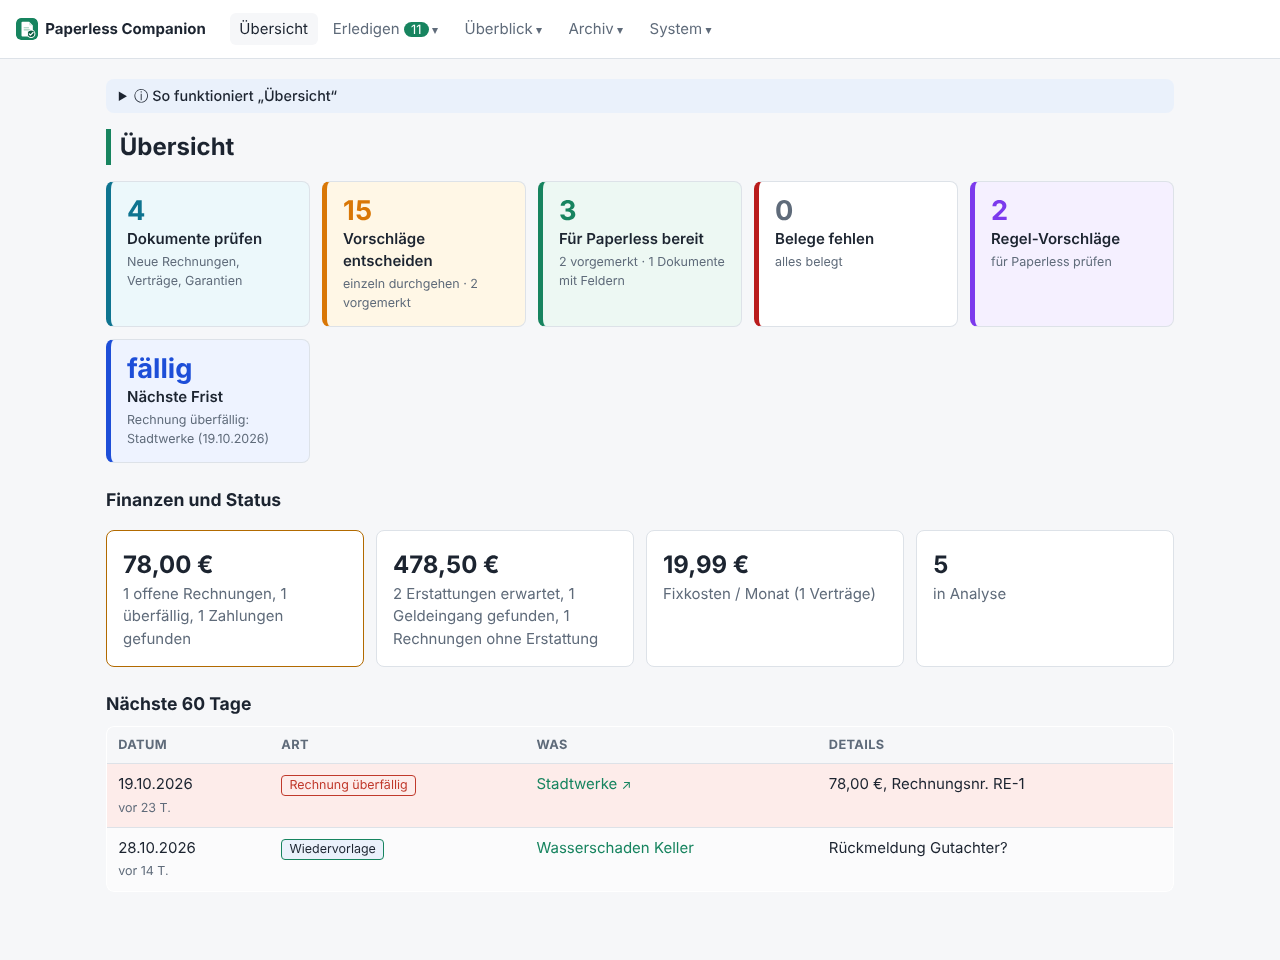
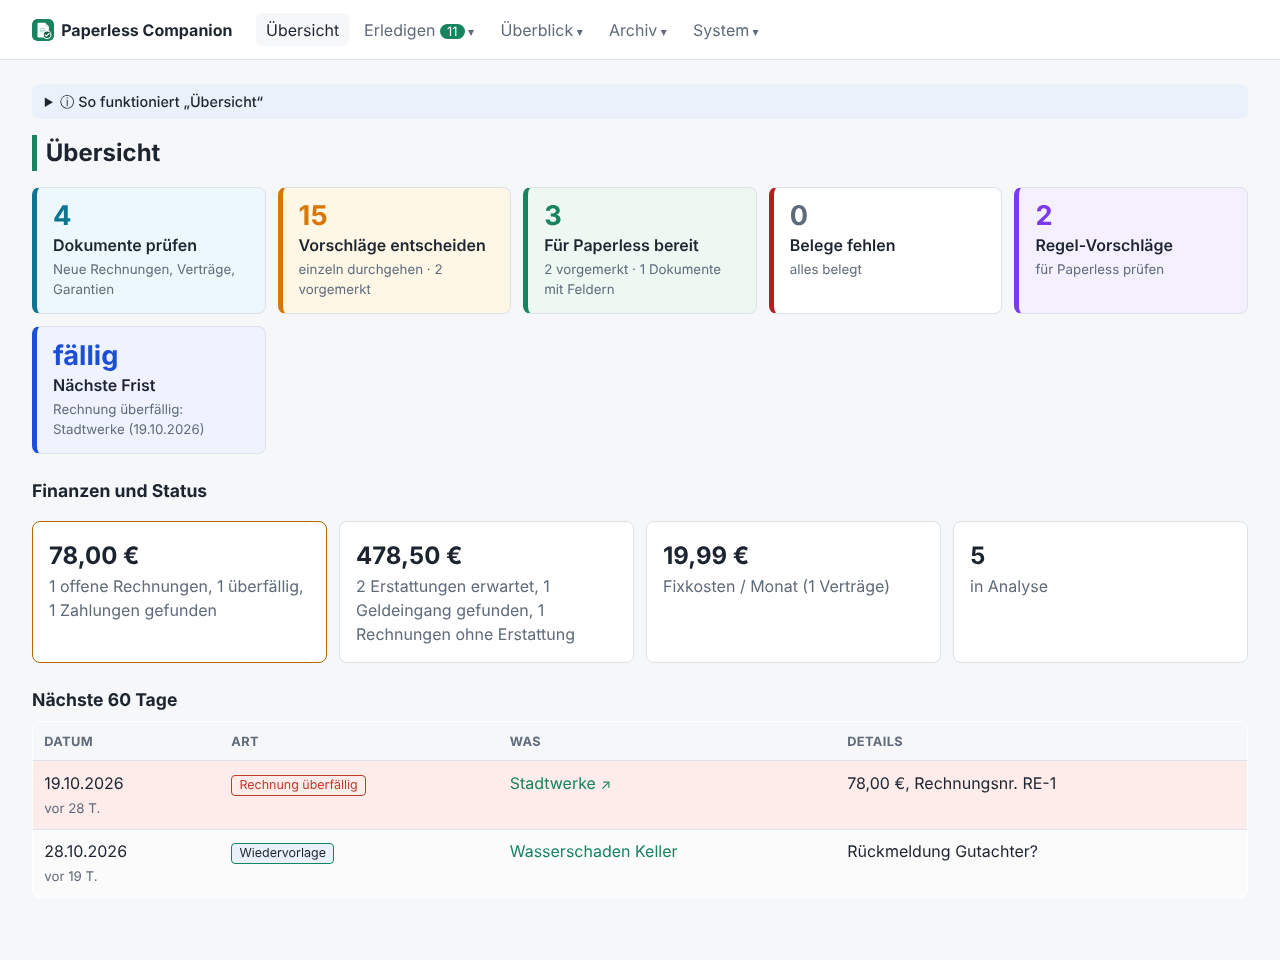
Desktop: Platz nutzen – volle Breite, größere Schrift, mehrspaltige Ansichten
- Ab 1200 px wachsen die Seiten mit dem Bildschirm (bis 1840 px), Schrift 16 px, luftigere Karten/Tabellen
- Für Paperless: Listen links, Filter/Status/Tipps als feste Seitenspalte rechts; Erklärtexte
  einklappbar; Dokumentblöcke ab 1700 px zweispaltig; Statistik und Archiv-Check nebeneinander
- Karten (Belege, Erstattungen, Inbox, Serien) nebeneinander; Regeln: Info-Karten nebeneinander
- Handy und schmale Fenster unverändert; Screenshots aktualisiert

Claude-Session: https://claude.ai/code/session_01GZFJmjHzpJwZEudqzSRrzQ

diff --git a/app/templates/paperless_changes.html b/app/templates/paperless_changes.html
@@ -116,6 +116,7 @@
     <label class="check"><input type="checkbox" onclick="document.querySelectorAll('#{{ form_id }} input[name=item]:not(.extra)').forEach(c => c.checked = this.checked); countSel('{{ form_id }}')"> alle auswählen</label>
     <small class="muted">{{ rows|length }} Dokumente</small>
   </div>
+  <div class="docblocks">
   {% for doc, items, extras in rows %}
   <article class="docblock">
     <header>
@@ -143,85 +144,19 @@
     {% endif %}
   </article>
   {% endfor %}
+  </div>
 {% endmacro %}
 
 <h2 id="metadata">Titel, Tags, Korrespondent, Dokumenttyp</h2>
 <datalist id="tag-choices">{% for n in META_CHOICES.tags %}<option value="{{ n }}">{% endfor %}</datalist>
 <datalist id="corr-choices">{% for n in META_CHOICES.correspondents %}<option value="{{ n }}">{% endfor %}</datalist>
-<p class="kind-legend"><span class="kind-pill k-title">Titel</span> <span class="kind-pill k-tag">Tag</span>
-  <span class="kind-pill k-correspondent">Korrespondent</span> <span class="kind-pill k-document_type">Dokumenttyp</span>
-  <small class="muted">· Tipp: ganze Zeile antippen zum Auswählen, Kästchen am Dokument wählt alle seine Vorschläge.
-    Beim Anhaken eines einzelnen Vorschlags erscheinen darunter ähnliche Dokumente (gleicher Absender, Betreff, IBAN/Kundennr.), die du gleich mit vormerken kannst.
-    Ist ein Filter gesetzt, zeigt „+ weitere außerhalb des Filters“ die übrigen Vorschläge desselben Dokuments.
-    Passt ein Vorschlag nicht ganz, korrigierst du ihn mit „✎ ändern“.</small></p>
-<p class="muted">Vorschläge aus dem lokalen Modell (<span class="badge src-llm">AI</span>) und aus deinen übrigen Dokumenten desselben Absenders
-  (<span class="badge src-history">Verlauf</span>). <strong>Vormerken</strong> speichert deine Entscheidung nur im Companion – die App lernt sofort daraus
-  (vorgemerkte Tags und Titel fließen in die nächsten Vorschläge ein). Nach Paperless geht erst etwas, wenn du <strong>Übertragen</strong> wählst.
-  {% if meta_queued %}<br><span class="tag">{{ meta_queued }} Vorschläge in Arbeit</span>{% endif %}</p>
-{% set ms = meta_status %}
-<div class="card meta-status">
-  <p><strong>Stand:</strong> {{ ms.done }} Dokumente mit Vorschlag
-    {%- if ms.nothing_open %} (davon {{ ms.nothing_open }} ohne offenen Punkt – Paperless passt schon oder alles entschieden){% endif %}
-    · {{ ms.queued }} in Warteschlange · {{ ms.error }} fehlgeschlagen
-    · {{ ms.analyzed_without }} analysierte Dokumente noch ohne Vorschlag</p>
-  {% if settings.meta_mode == 'off' %}<p class="notice warn">Metadaten-Vorschläge sind abgeschaltet (<code>META_MODE=off</code>).</p>
-  {% elif queue_paused and ms.queued %}<p class="notice warn">Die Warteschlange ist angehalten (System → Fortsetzen).</p>
-  {% elif settings.llm_enabled and not llm_now and ms.queued %}<p class="notice">Vorschläge mit AI laufen nur im AI-Zeitfenster ({{ settings.llm_active_hours }} Uhr).</p>
-  {% elif ms.queued and ms.analyses_waiting %}<p class="muted">Vorschläge laufen abwechselnd mit den {{ ms.analyses_waiting }} wartenden Analysen.</p>{% endif %}
-  {% if ms.last_error %}<p class="bad"><small>Letzter Fehler: {{ ms.last_error }}</small></p>{% endif %}
-  {% if ms.analyzed_without or ms.error %}
-  <form method="post" action="/paperless-changes/meta-backfill" class="inline" onsubmit="return confirm('{{ ms.analyzed_without + ms.error }} Dokumente für Vorschläge einreihen? Mit AI etwa eine Minute je Dokument auf der CPU – die Warteschlange lässt sich jederzeit anhalten.')">
-    <button class="small">Für {{ ms.analyzed_without + ms.error }} analysierte Dokumente Vorschläge erstellen</button>
-  </form>
-  {% endif %}
-</div>
-<p class="muted">Zuletzt erstellter Metadaten-Vorschlag: <strong>{{ last.meta_any|ts }}</strong>
-  {%- if last.meta_open %} · jüngster mit offenen Punkten: <strong>{{ last.meta_open|ts }}</strong>{% endif %}</p>
-
 {% set mf = meta_filter %}
 {% set mf_active = mf.values()|select|list|length > 0 %}
 {% macro mf_hidden(mf) %}{% for k, v in mf.items() if v %}<input type="hidden" name="{{ k }}" value="{{ v }}">{% endfor %}{% endmacro %}
 {% macro none_label(v) %}{{ '(ohne)' if v == NONE else v }}{% endmacro %}
-{% if questionable_count and not mf.check %}
-<div class="notice warn">{{ questionable_count }} vorgemerkte Einträge würden heute nicht mehr vorgeschlagen
-  (Jahres-Tag ohne Bezug zum Dokumentdatum, englischer Titel oder Tag).
-  <a href="/paperless-changes?check=1#metadata">Ansehen</a> – dort kannst du sie zurücknehmen, ändern oder so lassen. Es wird nichts automatisch entfernt.</div>
-{% endif %}
-{% if mf.check %}<div class="notice">Angezeigt werden nur Einträge, die heute nicht mehr vorgeschlagen würden (Jahres-Tags, Englisch).
-  <a href="/paperless-changes#metadata">Alle anzeigen</a></div>{% endif %}
-{% if mf.series %}<div class="notice">Nur Serie <strong>{{ series_name or mf.series }}</strong> –
-  <a href="/series/{{ mf.series }}">Serie ansehen</a> · <a href="/paperless-changes#metadata">alle anzeigen</a></div>{% endif %}
-
-{% if series_cards and not mf.series and not mf.check %}
-<section class="card section-series">
-  <h3>Serien – wiederkehrende Dokumente gemeinsam einordnen ({{ series_cards|length }}) {{ help("Dokumente desselben Absenders mit gleichem Betreff. Die Werte kommen aus den schon abgelegten Dokumenten der Serie (auch aus Vorgemerktem), nicht von der AI. „Alle vormerken“ merkt nur im Companion vor.") }}</h3>
-  <div class="series-cards">
-    {% for sc in series_cards[:12] %}
-    <article class="series-card">
-      <div class="series-head">
-        <a href="/series/{{ sc.id }}"><strong>{{ sc.name }}</strong></a>
-        <small class="muted">{{ sc.correspondent or 'ohne Korrespondent' }} · {{ sc.size }} Dokumente, {{ sc.refs }} schon abgelegt</small>
-      </div>
-      <div class="series-what">
-        {% if sc.pattern %}<span class="kind-pill k-title">Titel: {{ sc.pattern }}</span>{% endif %}
-        {% for t in sc.tags %}<span class="kind-pill k-tag">{{ t }}</span>{% endfor %}
-        {% if sc.document_type %}<span class="kind-pill k-document_type">{{ sc.document_type }}</span>{% endif %}
-      </div>
-      <div class="series-actions">
-        <form method="post" action="/paperless-changes/meta" class="inline"
-          onsubmit="return confirm('{{ sc['items'] }} Serienvorschläge bei {{ sc.docs }} Dokumenten vormerken? (Nur im Companion.)')">
-          <input type="hidden" name="series" value="{{ sc.id }}"><input type="hidden" name="source" value="series">
-          <button name="action" value="accept_all" class="small primary">{{ 'Alle ' ~ sc['items'] if sc['items'] != 1 else '1 Vorschlag' }} vormerken</button>
-        </form>
-        <a class="button small" href="/paperless-changes?series={{ sc.id }}#metadata">{{ sc.docs }} {{ 'Dokument' if sc.docs == 1 else 'Dokumente' }} ansehen</a>
-      </div>
-    </article>
-    {% endfor %}
-  </div>
-  {% if series_cards|length > 12 %}<p class="muted"><a href="/series">Alle {{ series_cards|length }} Serien mit offenen Vorschlägen</a></p>{% endif %}
-</section>
-{% endif %}
-
+{# Desktop: Listen links, Filter/Status als feste Seitenspalte rechts. Schmal: Seitenspalte zuerst, dann die Listen. #}
+<div class="pc-layout">
+<aside class="pc-side">
 <form method="get" action="/paperless-changes#metadata" class="card filter-card meta-filter">
   <nav class="tabs" aria-label="Art des Vorschlags">
     {% set total_open = meta_counts.what.values()|sum %}
@@ -261,6 +196,81 @@
     {% if mf_active %}<a class="button small" href="/paperless-changes#metadata">Filter zurücksetzen</a>{% endif %}
   </div>
 </form>
+
+{% set ms = meta_status %}
+<div class="card meta-status">
+  <p><strong>Stand:</strong> {{ ms.done }} Dokumente mit Vorschlag
+    {%- if ms.nothing_open %} (davon {{ ms.nothing_open }} ohne offenen Punkt – Paperless passt schon oder alles entschieden){% endif %}
+    · {{ ms.queued }} in Warteschlange · {{ ms.error }} fehlgeschlagen
+    · {{ ms.analyzed_without }} analysierte Dokumente noch ohne Vorschlag</p>
+  {% if settings.meta_mode == 'off' %}<p class="notice warn">Metadaten-Vorschläge sind abgeschaltet (<code>META_MODE=off</code>).</p>
+  {% elif queue_paused and ms.queued %}<p class="notice warn">Die Warteschlange ist angehalten (System → Fortsetzen).</p>
+  {% elif settings.llm_enabled and not llm_now and ms.queued %}<p class="notice">Vorschläge mit AI laufen nur im AI-Zeitfenster ({{ settings.llm_active_hours }} Uhr).</p>
+  {% elif ms.queued and ms.analyses_waiting %}<p class="muted">Vorschläge laufen abwechselnd mit den {{ ms.analyses_waiting }} wartenden Analysen.</p>{% endif %}
+  {% if ms.last_error %}<p class="bad"><small>Letzter Fehler: {{ ms.last_error }}</small></p>{% endif %}
+  {% if ms.analyzed_without or ms.error %}
+  <form method="post" action="/paperless-changes/meta-backfill" class="inline" onsubmit="return confirm('{{ ms.analyzed_without + ms.error }} Dokumente für Vorschläge einreihen? Mit AI etwa eine Minute je Dokument auf der CPU – die Warteschlange lässt sich jederzeit anhalten.')">
+    <button class="small">Für {{ ms.analyzed_without + ms.error }} analysierte Dokumente Vorschläge erstellen</button>
+  </form>
+  {% endif %}
+</div>
+<p class="muted">Zuletzt erstellter Metadaten-Vorschlag: <strong>{{ last.meta_any|ts }}</strong>
+  {%- if last.meta_open %} · jüngster mit offenen Punkten: <strong>{{ last.meta_open|ts }}</strong>{% endif %}</p>
+
+<details class="card pc-tips">
+  <summary>Legende und Tipps zur Bedienung</summary>
+<p class="kind-legend"><span class="kind-pill k-title">Titel</span> <span class="kind-pill k-tag">Tag</span>
+  <span class="kind-pill k-correspondent">Korrespondent</span> <span class="kind-pill k-document_type">Dokumenttyp</span>
+  <small class="muted">· Tipp: ganze Zeile antippen zum Auswählen, Kästchen am Dokument wählt alle seine Vorschläge.
+    Beim Anhaken eines einzelnen Vorschlags erscheinen darunter ähnliche Dokumente (gleicher Absender, Betreff, IBAN/Kundennr.), die du gleich mit vormerken kannst.
+    Ist ein Filter gesetzt, zeigt „+ weitere außerhalb des Filters“ die übrigen Vorschläge desselben Dokuments.
+    Passt ein Vorschlag nicht ganz, korrigierst du ihn mit „✎ ändern“.</small></p>
+<p class="muted">Vorschläge aus dem lokalen Modell (<span class="badge src-llm">AI</span>) und aus deinen übrigen Dokumenten desselben Absenders
+  (<span class="badge src-history">Verlauf</span>). <strong>Vormerken</strong> speichert deine Entscheidung nur im Companion – die App lernt sofort daraus
+  (vorgemerkte Tags und Titel fließen in die nächsten Vorschläge ein). Nach Paperless geht erst etwas, wenn du <strong>Übertragen</strong> wählst.
+  {% if meta_queued %}<br><span class="tag">{{ meta_queued }} Vorschläge in Arbeit</span>{% endif %}</p>
+</details>
+</aside>
+<div class="pc-main">
+{% if questionable_count and not mf.check %}
+<div class="notice warn">{{ questionable_count }} vorgemerkte Einträge würden heute nicht mehr vorgeschlagen
+  (Jahres-Tag ohne Bezug zum Dokumentdatum, englischer Titel oder Tag).
+  <a href="/paperless-changes?check=1#metadata">Ansehen</a> – dort kannst du sie zurücknehmen, ändern oder so lassen. Es wird nichts automatisch entfernt.</div>
+{% endif %}
+{% if mf.check %}<div class="notice">Angezeigt werden nur Einträge, die heute nicht mehr vorgeschlagen würden (Jahres-Tags, Englisch).
+  <a href="/paperless-changes#metadata">Alle anzeigen</a></div>{% endif %}
+{% if mf.series %}<div class="notice">Nur Serie <strong>{{ series_name or mf.series }}</strong> –
+  <a href="/series/{{ mf.series }}">Serie ansehen</a> · <a href="/paperless-changes#metadata">alle anzeigen</a></div>{% endif %}
+
+{% if series_cards and not mf.series and not mf.check %}
+<section class="card section-series">
+  <h3>Serien – wiederkehrende Dokumente gemeinsam einordnen ({{ series_cards|length }}) {{ help("Dokumente desselben Absenders mit gleichem Betreff. Die Werte kommen aus den schon abgelegten Dokumenten der Serie (auch aus Vorgemerktem), nicht von der AI. „Alle vormerken“ merkt nur im Companion vor.") }}</h3>
+  <div class="series-cards">
+    {% for sc in series_cards[:12] %}
+    <article class="series-card">
+      <div class="series-head">
+        <a href="/series/{{ sc.id }}"><strong>{{ sc.name }}</strong></a>
+        <small class="muted">{{ sc.correspondent or 'ohne Korrespondent' }} · {{ sc.size }} Dokumente, {{ sc.refs }} schon abgelegt</small>
+      </div>
+      <div class="series-what">
+        {% if sc.pattern %}<span class="kind-pill k-title">Titel: {{ sc.pattern }}</span>{% endif %}
+        {% for t in sc.tags %}<span class="kind-pill k-tag">{{ t }}</span>{% endfor %}
+        {% if sc.document_type %}<span class="kind-pill k-document_type">{{ sc.document_type }}</span>{% endif %}
+      </div>
+      <div class="series-actions">
+        <form method="post" action="/paperless-changes/meta" class="inline"
+          onsubmit="return confirm('{{ sc['items'] }} Serienvorschläge bei {{ sc.docs }} Dokumenten vormerken? (Nur im Companion.)')">
+          <input type="hidden" name="series" value="{{ sc.id }}"><input type="hidden" name="source" value="series">
+          <button name="action" value="accept_all" class="small primary">{{ 'Alle ' ~ sc['items'] if sc['items'] != 1 else '1 Vorschlag' }} vormerken</button>
+        </form>
+        <a class="button small" href="/paperless-changes?series={{ sc.id }}#metadata">{{ sc.docs }} {{ 'Dokument' if sc.docs == 1 else 'Dokumente' }} ansehen</a>
+      </div>
+    </article>
+    {% endfor %}
+  </div>
+  {% if series_cards|length > 12 %}<p class="muted"><a href="/series">Alle {{ series_cards|length }} Serien mit offenen Vorschlägen</a></p>{% endif %}
+</section>
+{% endif %}
 
 <section class="card section-accepted">
 <h3>Vorgemerkt – wartet auf Übertragung ({{ meta_accepted_count }}{{ ', gefiltert' if mf_active }}) {{ help("Von dir vorgemerkt. Die App lernt bereits daraus, Paperless bleibt unverändert, bis du überträgst.") }}</h3>
@@ -308,6 +318,7 @@
 {% endif %}
 </section>
 
+<div class="two-up">
 <section class="card">
   <h2>Wie gut sind die Vorschläge? {{ help("Je Quelle und Art: wie oft du übernommen, geändert oder verworfen hast. Hilft zu entscheiden, wann sich das Übertragen lohnt.") }}</h2>
   {% if quality.rows %}
@@ -340,6 +351,9 @@
     {% endfor %}
   </ul>
 </section>
+</div>
+</div>
+</div>
 <script>
 // Anzahl ausgewählter Einträge in der Aktionsleiste anzeigen
 function countSel(formId) {

diff --git a/app/static/style.css b/app/static/style.css
@@ -705,3 +705,40 @@ body.docview-open { overflow: hidden; }
 .receipt-search input { width: 100%; }
 .receipt-hit-list li { display: flex; flex-wrap: wrap; gap: .3rem .6rem; justify-content: space-between; align-items: center;
   padding: .35rem 0; border-top: 1px dashed var(--border); }
+
+/* ------------------------------------------------------------------ Desktop: Platz nutzen
+   Ab 1200 px wachsen die Seiten mit dem Bildschirm, die Schrift wird etwas größer, Karten stehen nebeneinander. */
+@media (min-width: 1200px) {
+  body { font-size: 16px; }
+  main, main.wide { max-width: min(1840px, 100%); padding: 1.5rem 2rem 3rem; }
+  .topbar { padding-left: 2rem; padding-right: 2rem; }
+  .card { padding: 1.15rem 1.25rem; }
+  table.list th, table.list td { padding-top: .6rem; padding-bottom: .6rem; }
+  /* Karten nebeneinander statt untereinander */
+  .tx-cards, .doc-cards { display: grid; grid-template-columns: repeat(auto-fill, minmax(34rem, 1fr)); gap: .75rem; align-items: start; }
+  .tx-cards > *, .doc-cards > * { margin: 0; }
+  .series-cards { grid-template-columns: repeat(auto-fill, minmax(22rem, 1fr)); }
+  .tiles { grid-template-columns: repeat(auto-fit, minmax(13rem, 1fr)); }
+  /* Für Paperless: Listen links, Filter und Status als Seitenspalte rechts */
+  .pc-layout { display: grid; grid-template-columns: minmax(0, 1fr) clamp(19rem, 22vw, 25rem); gap: 1.25rem; align-items: start; }
+  .pc-side { grid-column: 2; grid-row: 1; position: sticky; top: 1rem; max-height: calc(100vh - 2rem); overflow-y: auto; }
+  .pc-main { grid-column: 1; grid-row: 1; min-width: 0; }
+  .pc-side > .card:first-child, .pc-main > .card:first-child, .pc-main > .notice:first-child { margin-top: 0; }
+  .pc-side .grid { grid-template-columns: 1fr; }
+  .pc-side .tabs { flex-wrap: wrap; }
+  /* Lesetexte nicht über die ganze Breite ziehen */
+  main > p, main > .head + p, .card > p.muted, .page-help p { max-width: 75rem; }
+}
+/* Sehr breite Bildschirme: Dokumentblöcke zweispaltig */
+@media (min-width: 1700px) {
+  .docblocks { display: grid; grid-template-columns: repeat(2, minmax(0, 1fr)); gap: .6rem .9rem; align-items: start; }
+  .docblocks > .docblock { margin: 0; }
+}
+.pc-tips > summary { cursor: pointer; font-weight: 600; }
+.pc-tips[open] > summary { margin-bottom: .5rem; }
+@media (min-width: 1200px) {
+  /* zwei kurze Karten nebeneinander */
+  .two-up { display: grid; grid-template-columns: repeat(2, minmax(0, 1fr)); gap: 1rem; align-items: start; margin: 1rem 0; }
+  .two-up > .card { margin: 0; }
+  table.list select { max-width: 22rem; }
+}

diff --git a/app/templates/rules.html b/app/templates/rules.html
@@ -6,6 +6,7 @@
 <p class="muted">Was der Companion aus deinen Entscheidungen gelernt hat – und welche Regeln sich daraus für Paperless anbieten.
   Nichts davon wird automatisch in Paperless angelegt.</p>
 
+<div class="two-up">
 <section class="card" id="learned">
   <h2>Gelernte Felder {{ help("Aus mindestens zwei bestätigten Rechnungen eines Absenders mit (fast) immer gleichem Wert. Neue Rechnungen dieses Absenders werden damit vorbelegt (Herkunft „Gelernt“) – das spart AI-Abfragen. Du prüfst wie immer in der Inbox.") }}</h2>
   {% if profiles %}
@@ -53,6 +54,7 @@
   </table></div>
   {% else %}<p class="muted">Noch keine Daten – gezählt wird ab jetzt bei jeder Bestätigung in der Inbox.</p>{% endif %}
 </section>
+</div>
 
 <section class="card" id="proposals">
   <h2>Vorschläge für Paperless-Regeln {{ help("Gesucht werden Muster in deinem Archiv (inkl. Vorgemerktem). Korrespondent aus Text: Merkmale wie IBAN oder Domain, die nur bei einem Absender vorkommen. Absender → Tags/Typ und Dokumenttyp → Tags ab " ~ MIN_DOCS ~ " Dokumenten und " ~ SHARE ~ " %, Stichwort im Titel ab " ~ KEYWORD_SHARE ~ " %. Jahres-Tags und verworfene Tags werden nie vorgeschlagen.") }}</h2>
